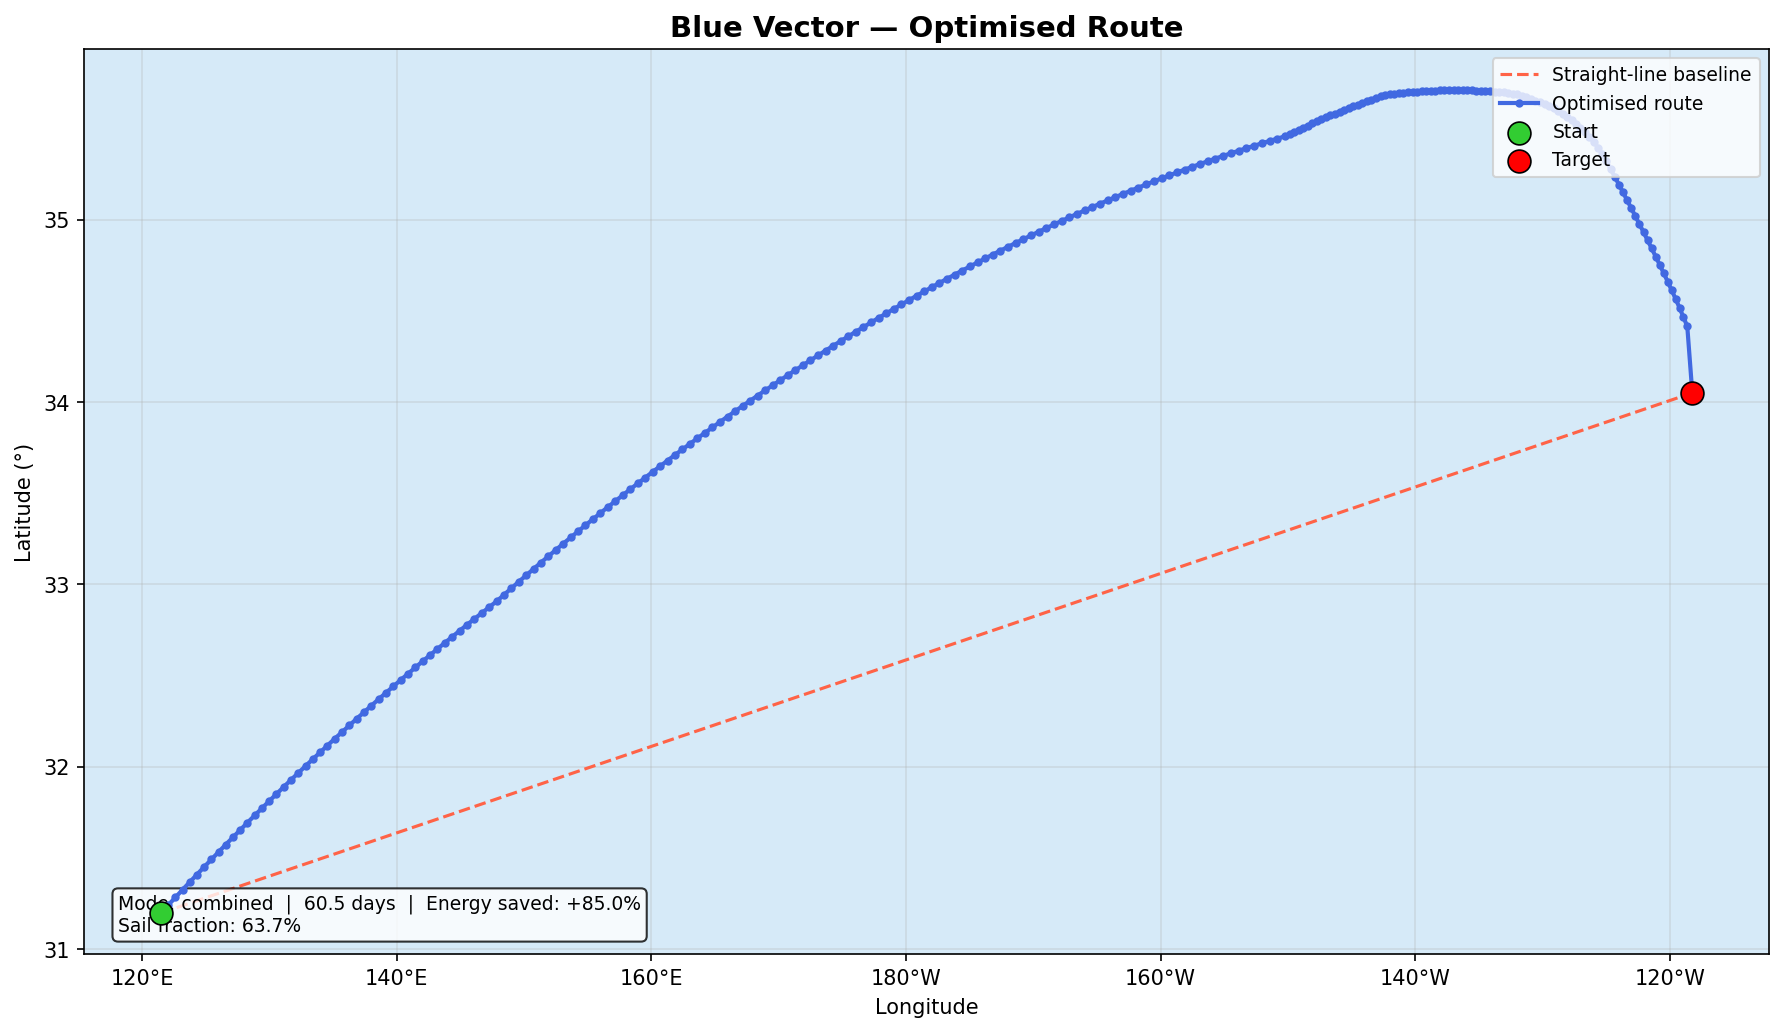
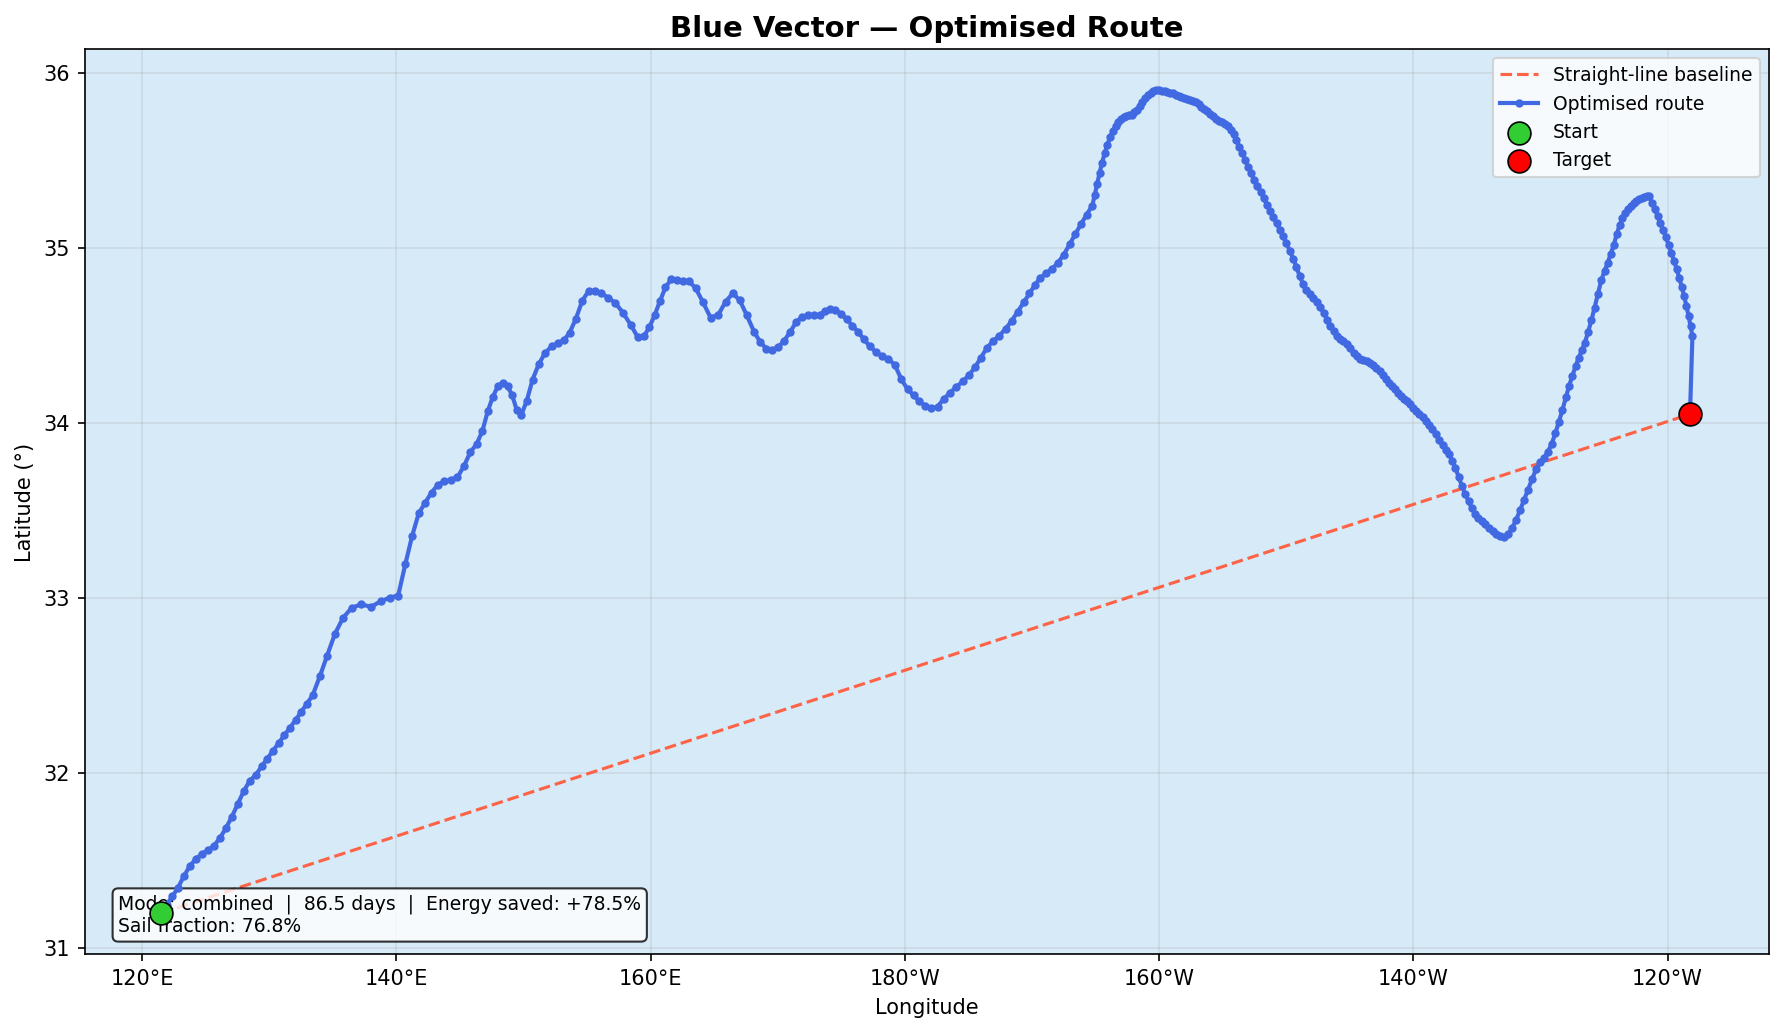
Update README with real RTOFS demo results and real-vs-mocked table
- Replace route_demo.png with output from live NOAA RTOFS run (2026-02-22)
- Update stats: 86.5 days, +78.5% energy saved, 76.8% sail fraction
- Add "What's Real vs Mocked" table clarifying which components use
  real data vs parametric models vs fake presets

diff --git a/README.md b/README.md
@@ -8,13 +8,15 @@
 
 ![Blue Vector Route Demo](route_demo.png)
 
+> Route plotted on **real NOAA RTOFS ocean current data** (fetched live via OPeNDAP, 2026-02-22).
+
 | Metric | Value |
 |--------|-------|
 | Route | Shanghai, China → Los Angeles, CA |
 | Distance (straight line) | 10,435 km |
-| Trip duration | 60.25 days |
-| Energy saved vs straight-line motor | **+85%** |
-| Sail fraction of displacement | 63.8% |
+| Trip duration | 86.5 days |
+| Energy saved vs straight-line motor | **+78.5%** |
+| Sail fraction of displacement | 76.8% |
 | Mode | Combined (sail + motor steering) |
 
 The optimised route arcs north into the North Pacific Current (Kuroshio Extension), riding the westerly winds before curving back south to Los Angeles — the same arc used by real transpacific cargo ships.
@@ -172,9 +174,25 @@ The computer steers into the +1 zones as much as possible.
 
 ---
 
-**Why does it save 85% energy?**
+**Why does it save ~78% energy?**
 
-On a 10,000 km trip, the ocean current and wind do most of the pushing. The motor is only used to *choose which lane to be in* — like a tiny rudder on a big sailboat. If you went in a straight line with just the motor, you'd use 6× more energy and take much longer.
+On a 10,000 km trip, the ocean current and wind do most of the pushing. The motor is only used to *choose which lane to be in* — like a tiny rudder on a big sailboat. If you went in a straight line with just the motor, you'd use ~5× more energy and take much longer.
+
+---
+
+## What's Real vs Mocked
+
+| Component | Status | Detail |
+|-----------|--------|--------|
+| **Routing algorithm** | ✅ Real | Receding-horizon optimizer, physics, energy model — pure math, nothing faked |
+| **Ocean currents** (default) | ✅ Real | Live NOAA RTOFS data fetched via OPeNDAP. Actual Pacific u/v velocities at ~90 km resolution, cached locally as NetCDF |
+| **Wind model** | ⚠ Parametric | Trade winds + westerlies by latitude/season. Correct physics, not a live NWP forecast |
+| **`--mock` presets** | 🔶 Fake | Uniform constant current everywhere — for instant offline demos only. Explicitly opt-in |
+| **Current time horizon** | ⚠ Limited | RTOFS provides 24 hours of hourly data per daily run. After hour 24 the simulation holds the last current snapshot frozen in space for the remainder of the voyage |
+
+**To run on real data:** `python main.py --out-plot route.png` (downloads and caches automatically)
+
+**To run offline:** `python main.py --mock favorable --out-plot route.png`
 
 ---
 
